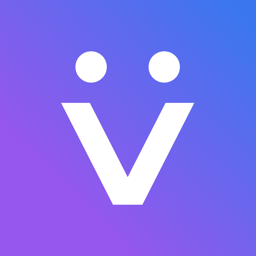
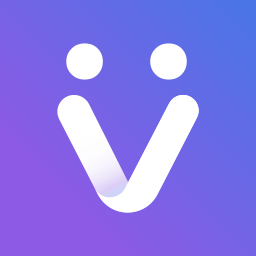
feat: 정식 로고 반영 — 머리·바닥 글자 로고, 새 아이콘, 휴대폰 화면 정리

Changed region(s): [[0.2188, 0.3438, 0.7812, 0.8438], [0.5625, 0.1562, 0.75, 0.3438], [0.25, 0.1562, 0.4375, 0.3438]]

diff --git a/index.html b/index.html
@@ -40,6 +40,7 @@
   .top .wrap { display: flex; align-items: center; gap: 24px; height: 64px; }
   .brand { display: flex; align-items: center; gap: 10px; font-weight: 800; font-size: var(--fs-lg); text-decoration: none; letter-spacing: -0.01em; }
   .brand img { width: 34px; height: 34px; border-radius: 10px; }
+  .brand img.wm { width: auto; height: 20px; border-radius: 0; } /* 정식 글자 로고(아리 2026-11-13) */
   .top nav { display: flex; gap: 22px; font-size: var(--fs-sm); margin-left: 8px; }
   .top nav a { text-decoration: none; color: var(--sub); font-weight: 500; }
   .top nav a:hover { color: var(--primary); }
@@ -56,6 +57,13 @@
   .hero h1 { font-size: var(--fs-hero); line-height: 1.1; margin: 20px 0 6px; letter-spacing: -0.03em; font-weight: 800; }
   html:not([lang="ko"]) .hero .en { display: none; }
   .hero .en { font-size: var(--fs-xl); font-weight: 500; opacity: .85; margin: 0 0 22px; letter-spacing: .02em; }
+  /* 정식 글자 로고(아리 2026-11-13) — ko 는 '비빌로그' 아래 작게, 다른 언어는 제목 자리에 크게 */
+  .hero img.en { display: block; height: 26px; width: auto; opacity: 1; margin: 6px 0 22px; }
+  .hero .wm-big { display: none; height: 64px; width: auto; margin: 20px 0 26px; }
+  html:not([lang="ko"]) .hero h1 { display: none; }
+  html:not([lang="ko"]) .hero .wm-big { display: block; }
+  @media (max-width: 960px) { .hero img.en, .hero .wm-big { margin-left: auto; margin-right: auto; } } /* 좁은 화면은 히어로 가운데 정렬 */
+  @media (max-width: 760px) { .hero .wm-big { height: 44px; margin-top: 24px; margin-bottom: 28px; } .hero img.en { height: 20px; margin-top: 12px; margin-bottom: 28px; } }
   .hero .lead { font-size: var(--fs-xl); font-weight: 700; margin: 0 0 8px; }
   .hero .lead2 { font-size: var(--fs-lg); opacity: .9; margin: 0 0 32px; max-width: 30em; }
   .stores { display: flex; gap: 12px; flex-wrap: wrap; padding-bottom: 72px; }
@@ -111,6 +119,7 @@
   .flinks a.ic svg { width: 18px; height: 18px; flex: none; }
   .fbrand { display: flex; align-items: center; gap: 8px; font-weight: 800; color: var(--text); font-size: var(--fs-body); }
   .fbrand img { width: 24px; height: 24px; border-radius: 7px; }
+  .fbrand img.wm { width: auto; height: 14px; border-radius: 0; }
 
   @media (max-width: 960px) {
     .top nav { display: none; }
@@ -129,7 +138,7 @@
   }
   @media (max-width: 560px) {
     .top .wrap { gap: 12px; }
-    .brand span { display: none; }
+    .brand span, .brand img.wm { display: none; } /* 좁은 화면 머리줄은 아이콘만(원래 규칙) — 글자 로고는 아래 큰 제목에 */
     .store { flex: 1 1 140px; justify-content: center; }
     .hero-phones { height: 380px; }
     .hero-phones .p1 { width: 190px; }
@@ -145,7 +154,7 @@
 
 <header class="top">
   <div class="wrap">
-    <a class="brand" href="#"><img src="bevilllog/icon.png" alt=""><span>BeVillLog</span></a>
+    <a class="brand" href="#" aria-label="BeVillLog"><img src="bevilllog/icon.png" alt=""><img class="wm" src="bevilllog/logo-color.svg" alt="BeVillLog"></a>
     <nav>
       <a href="#photocard" data-i18n="navPhotocard">포토카드</a>
       <a href="#tour" data-i18n="navTour">방탄투어</a>
@@ -171,7 +180,8 @@
     <div>
       <span class="badge" data-i18n="badge">💜 나는 n년차 아미</span>
       <h1 data-i18n="heroTitle">비빌로그</h1>
-      <p class="en">BeVillLog</p>
+      <img class="en wm" src="bevilllog/logo-white.svg" alt="BeVillLog">
+      <img class="wm-big" src="bevilllog/logo-white.svg" alt="BeVillLog">
       <p class="lead" data-i18n="heroLead">포카 · 방탄투어 · 공연 · 미디어·영화를 한곳에</p>
       <p class="lead2" data-i18n="heroLead2">흩어져 있던 방탄 덕질의 순간을 체크 한 번으로 차곡차곡.<br>모일수록 나만의 아미로그가 완성돼요.</p>
       <div class="stores">
@@ -277,7 +287,7 @@
 
 <footer>
   <div class="wrap">
-    <div class="fbrand"><img src="bevilllog/icon.png" alt="">BeVillLog</div>
+    <div class="fbrand"><img src="bevilllog/icon.png" alt=""><img class="wm" src="bevilllog/logo-color.svg" alt="BeVillLog"></div>
     <div class="flinks">
       <a id="lnkTerms" target="_blank" rel="noopener" href="bevilllog/terms/ko.html" data-i18n="terms">서비스 이용약관</a>
       <a id="lnkPrivacy" target="_blank" rel="noopener" href="bevilllog/privacy/ko.html" data-i18n="privacy">개인정보처리방침</a>
